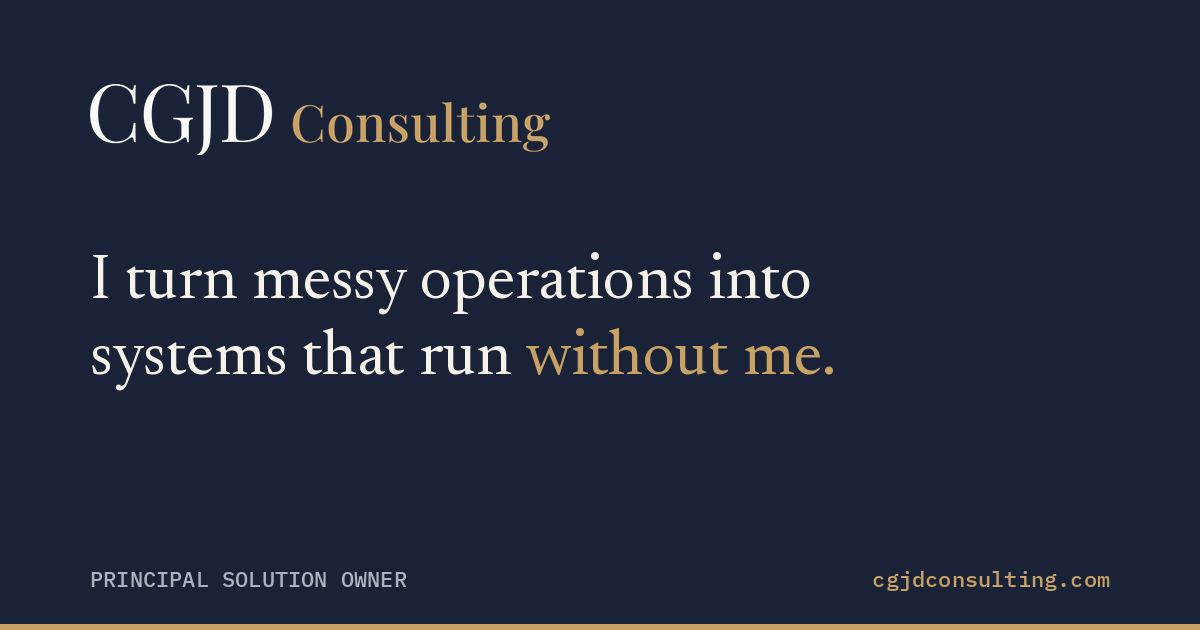
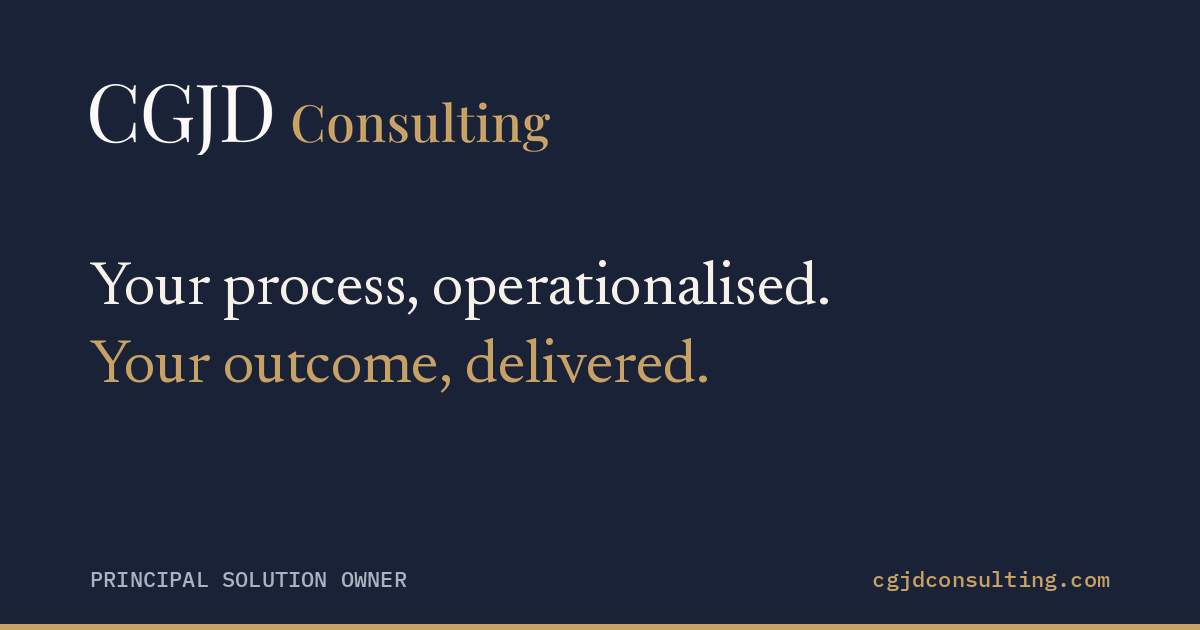
Add files via upload

Changed region(s): [[0.0617, 0.3921, 0.6783, 0.5127], [0.0617, 0.5127, 0.7092, 0.6333]]

diff --git a/index.html b/index.html
@@ -18,17 +18,17 @@
 <meta property="og:site_name" content="CGJDConsulting">
 <meta property="og:url" content="https://cgjdconsulting.com/">
 <meta property="og:title" content="CGJDConsulting · Emeka Maddy, Principal Solution Owner">
-<meta property="og:description" content="I turn messy operations into systems that run without me. Discovery to handover, one practitioner accountable throughout.">
+<meta property="og:description" content="Your process, operationalised. Your outcome, delivered. A turnkey delivery partner from discovery through to handover.">
 <meta property="og:image" content="https://cgjdconsulting.com/og-image.png">
 <meta property="og:image:width" content="1200">
 <meta property="og:image:height" content="630">
-<meta property="og:image:alt" content="CGJDConsulting — I turn messy operations into systems that run without me.">
+<meta property="og:image:alt" content="CGJDConsulting &middot; Your process, operationalised. Your outcome, delivered.">
 <meta property="og:locale" content="en_GB">
 
 <!-- Twitter Card (also used by some link-preview bots) -->
 <meta name="twitter:card" content="summary_large_image">
 <meta name="twitter:title" content="CGJDConsulting · Emeka Maddy, Principal Solution Owner">
-<meta name="twitter:description" content="I turn messy operations into systems that run without me.">
+<meta name="twitter:description" content="Your process, operationalised. Your outcome, delivered.">
 <meta name="twitter:image" content="https://cgjdconsulting.com/og-image.png">
 <link rel="preconnect" href="https://fonts.googleapis.com">
 <link rel="preconnect" href="https://fonts.gstatic.com" crossorigin>
@@ -68,6 +68,8 @@
   header.nav{position:sticky;top:0;z-index:100;background:rgba(246,242,233,0.88);backdrop-filter:blur(10px);border-bottom:1px solid var(--line-light)}
   .nav-inner{display:flex;align-items:center;justify-content:space-between;height:66px}
   .brand svg{height:26px;width:auto;display:block}
+  .brand-wrap{display:flex;align-items:center;gap:11px}
+  .brand-mark{height:34px;width:34px;display:block;flex-shrink:0}
   .nav-links{display:flex;align-items:center;gap:2rem}
   .nav-links a{font-size:0.9rem;color:var(--text-body);transition:color .2s}
   .nav-links a:hover{color:var(--gold-deep)}
@@ -94,6 +96,9 @@
   .btn-primary:hover{background:var(--gold-bright);transform:translateY(-2px)}
   .btn-ghost{border:1px solid var(--line-dark);color:var(--on-ink)}
   .btn-ghost:hover{border-color:var(--on-ink);transform:translateY(-2px)}
+  .hero-canvas{position:absolute;top:50%;right:clamp(0px,3vw,64px);transform:translateY(-50%);width:min(40vw,600px);height:auto;aspect-ratio:600/215;pointer-events:none;z-index:0}
+  @media(max-width:980px){.hero-canvas{display:none}}
+  .hero .wrap{position:relative;z-index:1}
   .hero-sectors{margin-top:clamp(3rem,7vw,5rem);padding-top:1.4rem;border-top:1px solid var(--line-dark);display:flex;flex-wrap:wrap;gap:.6rem 2rem;color:var(--on-ink-dim)}
   .hero-sectors span b{color:var(--on-ink);font-weight:400}
 
@@ -205,11 +210,11 @@
 
 <header class="nav">
   <div class="wrap nav-inner">
-    <a href="#top" class="brand" aria-label="CGJD Consulting home"><svg xmlns="http://www.w3.org/2000/svg" viewBox="0 0 957.9 174.4" width="957.9" height="174.4">
[1 lines of base64/hex data omitted]
 
 <g transform="translate(44.00,150.20)" fill="#192237"><g transform="translate(0.000,0) scale(0.15000,-0.15000)"><path d="M371 722Q437 722 479.5 702.5Q522 683 555 657Q575 642 585.5 653.5Q596 665 600 708H623Q621 671 620.0 618.0Q619 565 619 478H596Q589 521 583.0 546.5Q577 572 568.5 590.0Q560 608 546 626Q515 667 468.0 685.5Q421 704 369 704Q320 704 280.5 679.5Q241 655 212.5 609.0Q184 563 168.5 498.0Q153 433 153 352Q153 268 170.0 203.5Q187 139 217.5 95.0Q248 51 289.5 28.5Q331 6 379 6Q424 6 473.0 24.0Q522 42 550 82Q572 111 580.5 145.0Q589 179 596 240H619Q619 149 620.0 93.5Q621 38 623 0H600Q596 43 586.5 54.0Q577 65 555 51Q518 25 476.5 5.5Q435 -14 370 -14Q275 -14 203.5 29.0Q132 72 92.5 153.0Q53 234 53 348Q53 460 94.0 544.0Q135 628 206.5 675.0Q278 722 371 722Z"/></g><g transform="translate(100.200,0) scale(0.15000,-0.15000)"><path d="M376 722Q441 722 481.0 702.5Q521 683 556 657Q569 647 576 647Q595 647 601 708H624Q622 671 621.0 618.0Q620 565 620 478H597Q590 520 580.0 559.0Q570 598 547 626Q518 663 471.0 683.5Q424 704 374 704Q324 704 283.5 679.5Q243 655 214.0 609.0Q185 563 169.5 498.5Q154 434 154 353Q154 173 212.0 89.5Q270 6 392 6Q428 6 454.5 16.5Q481 27 496 37Q515 50 520.0 61.5Q525 73 525 92V188Q525 229 517.0 249.0Q509 269 487.5 276.0Q466 283 424 284V304Q442 303 466.0 302.5Q490 302 516.5 301.5Q543 301 565 301Q598 301 624.5 302.0Q651 303 669 304V284Q647 283 636.0 277.0Q625 271 621.5 253.0Q618 235 618 198V0H598Q597 17 590.5 37.0Q584 57 571 57Q565 57 559.0 54.0Q553 51 538 40Q505 15 468.0 0.5Q431 -14 382 -14Q279 -14 205.5 28.5Q132 71 93.0 151.0Q54 231 54 342Q54 459 96.0 544.0Q138 629 210.5 675.5Q283 722 376 722Z"/></g><g transform="translate(202.650,0) scale(0.15000,-0.15000)"><path d="M-20 -188V-169Q25 -168 55.5 -147.0Q86 -126 101.5 -77.5Q117 -29 117 52V602Q117 639 111.0 656.5Q105 674 87.5 680.5Q70 687 36 688V708Q57 707 91.0 706.0Q125 705 162 705Q199 705 233.5 706.0Q268 707 291 708V688Q257 687 239.5 680.5Q222 674 216.0 656.5Q210 639 210 602V236Q210 195 209.0 147.0Q208 99 204.5 54.0Q201 9 193 -25Q176 -95 121.5 -141.5Q67 -188 -20 -188Z"/></g><g transform="translate(248.550,0) scale(0.15000,-0.15000)"><path d="M315 708Q494 708 581.0 618.5Q668 529 668 362Q668 253 625.5 171.5Q583 90 502.0 45.0Q421 0 306 0Q291 0 266.0 1.0Q241 2 214.5 2.5Q188 3 166 3Q131 3 97.0 2.5Q63 2 42 0V20Q76 22 93.5 28.0Q111 34 117.0 52.0Q123 70 123 106V602Q123 639 117.0 656.5Q111 674 93.5 680.5Q76 687 42 688V708Q63 707 97.0 705.5Q131 704 164 705Q199 706 243.0 707.0Q287 708 315 708ZM290 690Q244 690 230.0 673.0Q216 656 216 604V104Q216 52 230.5 35.0Q245 18 291 18Q400 18 460.0 57.5Q520 97 544.0 173.0Q568 249 568 358Q568 470 541.5 543.5Q515 617 454.5 653.5Q394 690 290 690Z"/></g></g>
 <g transform="translate(427.00,150.20)" fill="#C8A165"><g transform="translate(0.000,0) scale(0.09600,-0.09600)"><path d="M379.60052490234375 722Q445.60052490234375 722 488.10052490234375 702.5Q530.6005249023438 683 563.6005249023438 657Q583.6005249023438 642 594.1005249023438 653.5Q604.6005249023438 665 608.6005249023438 708H631.6005249023438Q629.6005249023438 670.3999633789062 628.6005249023438 616.4999084472656Q627.6005249023438 562.599853515625 627.6005249023438 473.999755859375H604.6005249023438Q598.2005615234375 517.9998168945312 591.6005249023438 545.8999633789062Q585.00048828125 573.8001098632812 574.6003723144531 594.000244140625Q564.2002563476562 614.2003784179688 546.2000122070312 633.0004272460938Q517.2001342773438 668.60009765625 474.9004211425781 684.9999694824219Q432.6007080078125 701.3998413085938 386.00103759765625 701.3998413085938Q335.40093994140625 701.3998413085938 296.4009704589844 675.499755859375Q257.4010009765625 649.5996704101562 230.5010986328125 602.6996154785156Q203.6011962890625 555.799560546875 189.60128784179688 491.8996276855469Q175.60137939453125 427.99969482421875 175.60137939453125 352Q175.60137939453125 273.600341796875 190.80126953125 210.10040283203125Q206.00115966796875 146.6004638671875 234.50103759765625 101.30038452148438Q263.00091552734375 56.00030517578125 303.6008605957031 31.7001953125Q344.2008056640625 7.40008544921875 394.00091552734375 7.40008544921875Q435.00067138671875 7.40008544921875 478.9003601074219 23.499969482421875Q522.800048828125 39.599853515625 549.3999633789062 74.19952392578125Q577.0003051757812 103.59954833984375 587.3004150390625 141.19976806640625Q597.6005249023438 178.79998779296875 604.6005249023438 244.000244140625H627.6005249023438Q627.6005249023438 151.60015869140625 628.6005249023438 95.10009765625Q629.6005249023438 38.60003662109375 631.6005249023438 0H608.6005249023438Q604.6005249023438 43 595.1005249023438 54.0Q585.6005249023438 65 563.6005249023438 51Q526.6005249023438 25 485.10052490234375 5.5Q443.60052490234375 -14 378.60052490234375 -14Q280.00030517578125 -14 205.80014038085938 29.0Q131.5999755859375 72 90.59988403320312 153.0Q49.59979248046875 234 49.59979248046875 348Q49.59979248046875 460 92.09988403320312 544.0Q134.5999755859375 628 208.80014038085938 675.0Q283.00030517578125 722 379.60052490234375 722Z"/></g><g transform="translate(67.624,0) scale(0.09600,-0.09600)"><path d="M276.8001708984375 529.800048828125Q343.600341796875 529.800048828125 395.9004211425781 502.1000671386719Q448.20050048828125 474.40008544921875 479.0005187988281 414.40008544921875Q509.800537109375 354.40008544921875 509.800537109375 257.4000244140625Q509.800537109375 160.39996337890625 479.0005187988281 100.79995727539062Q448.20050048828125 41.199951171875 395.9004211425781 13.5999755859375Q343.600341796875 -14 276.8001708984375 -14Q211 -14 158.19992065429688 13.5999755859375Q105.39984130859375 41.199951171875 74.59982299804688 100.79995727539062Q43.7998046875 160.39996337890625 43.7998046875 257.4000244140625Q43.7998046875 354.40008544921875 74.59982299804688 414.40008544921875Q105.39984130859375 474.40008544921875 158.19992065429688 502.1000671386719Q211 529.800048828125 276.8001708984375 529.800048828125ZM276.8001708984375 509.800048828125Q225.20050048828125 509.800048828125 192.00070190429688 450.60003662109375Q158.8009033203125 391.4000244140625 158.8009033203125 257.4000244140625Q158.8009033203125 123.4000244140625 192.00070190429688 64.70001220703125Q225.20050048828125 6 276.8001708984375 6Q328.39984130859375 6 361.5996398925781 64.70001220703125Q394.7994384765625 123.4000244140625 394.7994384765625 257.4000244140625Q394.7994384765625 391.4000244140625 361.5996398925781 450.60003662109375Q328.39984130859375 509.800048828125 276.8001708984375 509.800048828125Z"/></g><g transform="translate(121.808,0) scale(0.09600,-0.09600)"><path d="M375.20062255859375 529.800048828125Q414.80072021484375 529.800048828125 440.500732421875 519.5000305175781Q466.20074462890625 509.20001220703125 482.6007080078125 491.4000244140625Q500.8006591796875 471.800048828125 508.60064697265625 441.800048828125Q516.400634765625 411.800048828125 516.400634765625 360.800048828125V93Q516.400634765625 51 532.9005737304688 36.0Q549.4005126953125 21 588.400390625 21V0Q570.8003540039062 1 534.7002868652344 2.5Q498.6002197265625 4 464.400146484375 4Q429.60003662109375 4 396.3999328613281 2.5Q363.1998291015625 1 346.3997802734375 0V21Q380.399658203125 21 394.39959716796875 36.0Q408.3995361328125 51 408.3995361328125 93V389.200439453125Q408.3995361328125 418.2003173828125 403.3995361328125 441.8001708984375Q398.3995361328125 465.4000244140625 382.29962158203125 479.59991455078125Q366.19970703125 493.7998046875 333.7999267578125 493.7998046875Q296.6002197265625 493.7998046875 268.10040283203125 472.79998779296875Q239.6005859375 451.8001708984375 223.50067138671875 415.30047607421875Q207.4007568359375 378.80078125 207.4007568359375 333.8011474609375V93Q207.4007568359375 51 221.50070190429688 36.0Q235.60064697265625 21 269.4005126953125 21V0Q252.80047607421875 1 220.20040893554688 2.5Q187.600341796875 4 153.4002685546875 4Q118.60015869140625 4 82.00006103515625 2.5Q45.39996337890625 1 27.39990234375 0V21Q66.3997802734375 21 82.89971923828125 36.0Q99.399658203125 51 99.399658203125 93V406.800048828125Q99.399658203125 451.800048828125 84.19970703125 473.300048828125Q68.999755859375 494.800048828125 27.39990234375 494.800048828125V515.800048828125Q59.39990234375 512.800048828125 89.39990234375 512.800048828125Q122.60015869140625 512.800048828125 152.5003662109375 516.300048828125Q182.40057373046875 519.800048828125 207.4007568359375 526.800048828125V418.0006103515625Q233.000732421875 480.4002685546875 278.3006591796875 505.10015869140625Q323.6005859375 529.800048828125 375.20062255859375 529.800048828125Z"/></g><g transform="translate(180.696,0) scale(0.09600,-0.09600)"><path d="M212.60028076171875 529.800048828125Q253.40032958984375 529.800048828125 282.5003967285156 517.5000915527344Q311.6004638671875 505.20013427734375 325.00048828125 494.8001708984375Q358.4005126953125 469.000244140625 365.60052490234375 528.800048828125H388.00048828125Q386.00048828125 500.60003662109375 385.00048828125 461.5Q384.00048828125 422.39996337890625 384.00048828125 356.7999267578125H361.60052490234375Q356.00054931640625 393.7999267578125 341.7005615234375 428.99993896484375Q327.40057373046875 464.199951171875 299.9006042480469 486.9999694824219Q272.400634765625 509.79998779296875 228.20068359375 509.79998779296875Q195.2008056640625 509.79998779296875 173.00088500976562 491.2000427246094Q150.80096435546875 472.60009765625 150.80096435546875 437.000244140625Q150.80096435546875 407.000244140625 168.80096435546875 385.1002197265625Q186.80096435546875 363.2001953125 215.6009521484375 344.10015869140625Q244.40093994140625 325.0001220703125 277.20086669921875 302.60009765625Q313.80078125 278.40008544921875 343.40069580078125 253.60009765625Q373.0006103515625 228.80010986328125 390.7005615234375 199.10012817382812Q408.4005126953125 169.400146484375 408.4005126953125 128.8001708984375Q408.4005126953125 83.00018310546875 383.7004699707031 51.20013427734375Q359.00042724609375 19.40008544921875 319.100341796875 2.700042724609375Q279.20025634765625 -14 231.20013427734375 -14Q206.5999755859375 -14 185.79989624023438 -9.699951171875Q164.99981689453125 -5.39990234375 147.39984130859375 2.20013427734375Q136.19976806640625 7.8001708984375 125.499755859375 14.300140380859375Q114.79974365234375 20.80010986328125 104.5997314453125 27.20001220703125Q94.5997314453125 33.59991455078125 86.79974365234375 24.69989013671875Q78.999755859375 15.79986572265625 74.999755859375 -7H52.59979248046875Q54.59979248046875 25 55.59979248046875 71.0Q56.59979248046875 117 56.59979248046875 193H78.999755859375Q85.79974365234375 137.60003662109375 99.69979858398438 95.800048828125Q113.599853515625 54.00006103515625 141.49984741210938 30.50006103515625Q169.39984130859375 7.00006103515625 216.59967041015625 7.00006103515625Q235.79962158203125 7.00006103515625 254.79953002929688 15.4000244140625Q273.7994384765625 23.79998779296875 286.599365234375 42.9998779296875Q299.3992919921875 62.19976806640625 299.3992919921875 93.99957275390625Q299.3992919921875 137.99957275390625 268.4993591308594 166.39959716796875Q237.59942626953125 194.79962158203125 190.3995361328125 226.7996826171875Q155.599609375 250.79974365234375 125.09967041015625 274.4997863769531Q94.5997314453125 298.1998291015625 75.59976196289062 327.6998596191406Q56.59979248046875 357.19989013671875 56.59979248046875 397.79986572265625Q56.59979248046875 442.79986572265625 78.29986572265625 471.9999084472656Q99.99993896484375 501.199951171875 135.800048828125 515.5Q171.60015869140625 529.800048828125 212.60028076171875 529.800048828125Z"/></g><g transform="translate(225.088,0) scale(0.09600,-0.09600)"><path d="M496.00079345703125 526.800048828125V108.20001220703125Q496.00079345703125 63.20001220703125 511.70074462890625 41.70001220703125Q527.4006958007812 20.20001220703125 568.0005493164062 20.20001220703125V-0.79998779296875Q537.0005493164062 2.20001220703125 506.00054931640625 2.20001220703125Q472.80029296875 2.20001220703125 443.0000915527344 -0.79998779296875Q413.19989013671875 -3.79998779296875 387.99969482421875 -11.79998779296875V96.99945068359375Q363.19970703125 36.999755859375 318.69976806640625 11.4998779296875Q274.1998291015625 -14 224.999755859375 -14Q187.79962158203125 -14 161.69961547851562 -3.699981689453125Q135.599609375 6.60003662109375 119.19964599609375 24.4000244140625Q100.99969482421875 44 93.99969482421875 75.5999755859375Q86.99969482421875 107.199951171875 86.99969482421875 155V406.800048828125Q86.99969482421875 451.800048828125 71.79974365234375 473.300048828125Q56.59979248046875 494.800048828125 14.99993896484375 494.800048828125V515.800048828125Q46.99993896484375 512.800048828125 76.99993896484375 512.800048828125Q110.2001953125 512.800048828125 140.10040283203125 516.300048828125Q170.0006103515625 519.800048828125 195.00079345703125 526.800048828125V126.599609375Q195.00079345703125 97.5997314453125 199.2008056640625 73.9998779296875Q203.40081787109375 50.4000244140625 218.4007568359375 36.20013427734375Q233.40069580078125 22.000244140625 265.6004638671875 22.000244140625Q300.6002197265625 22.000244140625 328.2000427246094 43.00006103515625Q355.79986572265625 63.9998779296875 371.8997802734375 100.09957885742188Q387.99969482421875 136.19927978515625 387.99969482421875 181.19891357421875V406.800048828125Q387.99969482421875 451.800048828125 372.79974365234375 473.300048828125Q357.59979248046875 494.800048828125 315.99993896484375 494.800048828125V515.800048828125Q347.99993896484375 512.800048828125 377.99993896484375 512.800048828125Q411.2001953125 512.800048828125 441.10040283203125 516.300048828125Q471.0006103515625 519.800048828125 496.00079345703125 526.800048828125Z"/></g><g transform="translate(282.632,0) scale(0.09600,-0.09600)"><path d="M201.2008056640625 783.5999755859375V92.97685809174845Q201.2008056640625 51 217.70074462890625 36.0Q234.20068359375 21 273.2005615234375 21V0Q255.6470393690952 1 220.0237149970476 2.5Q184.400390625 4 148.00030517578125 4Q112.43097862830528 4 75.81549541766827 2.5Q39.20001220703125 1 21.199951171875 0V21Q60.1998291015625 21 76.69976806640625 35.991278537484106Q93.19970703125 50.982557074968206 93.19970703125 92.9581369799237V663.6261399734852Q93.19970703125 708.5999755859375 78.04186369243422 730.0999755859375Q62.884020353618425 751.5999755859375 21.199951171875 751.5999755859375V772.5999755859375Q53.199951171875 769.5999755859375 83.199951171875 769.5999755859375Q116.40020751953125 769.5999755859375 146.3004150390625 773.0999755859375Q176.20062255859375 776.5999755859375 201.2008056640625 783.5999755859375Z"/></g><g transform="translate(311.856,0) scale(0.09600,-0.09600)"><path d="M202.4007568359375 681V515.0000610351562H340.400146484375V495.00006103515625H202.4007568359375V102.39971923828125Q202.4007568359375 61.00006103515625 217.400634765625 44.100189208984375Q232.4005126953125 27.2003173828125 259.600341796875 27.2003173828125Q285.80010986328125 27.2003173828125 306.4000244140625 48.10009765625Q326.99993896484375 68.9998779296875 342.39990234375 118.599365234375L361.39984130859375 112.19927978515625Q349.19970703125 58.59954833984375 318.69964599609375 22.299774169921875Q288.1995849609375 -14 228.99969482421875 -14Q195.19970703125 -14 172.29965209960938 -5.5Q149.39959716796875 3 132.39959716796875 19.20001220703125Q110.39959716796875 42 102.39962768554688 74.10000610351562Q94.399658203125 106.20001220703125 94.399658203125 159V495.00006103515625H2.39990234375V515.0000610351562H94.399658203125V660.9996337890625Q125 661.7996215820312 152.10025024414062 666.2997131347656Q179.20050048828125 670.7998046875 202.4007568359375 681Z"/></g><g transform="translate(346.744,0) scale(0.09600,-0.09600)"><path d="M146.6002197265625 768.4002075195312Q177.800537109375 768.4002075195312 198.70065307617188 748.9001770019531Q219.60076904296875 729.400146484375 219.60076904296875 699.9999389648438Q219.60076904296875 670.5997314453125 198.70065307617188 651.0997009277344Q177.800537109375 631.5996704101562 146.6002197265625 631.5996704101562Q115.39990234375 631.5996704101562 94.49978637695312 651.0997009277344Q73.59967041015625 670.5997314453125 73.59967041015625 699.9999389648438Q73.59967041015625 729.400146484375 94.49978637695312 748.9001770019531Q115.39990234375 768.4002075195312 146.6002197265625 768.4002075195312ZM207.4007568359375 526.800048828125V93.07179925380609Q207.4007568359375 51 223.90069580078125 36.0Q240.400634765625 21 279.4005126953125 21V0Q261.8469905409702 1 226.2236661689226 2.5Q190.600341796875 4 154.20025634765625 4Q118.63092980018028 4 82.01544658954327 2.5Q45.39996337890625 1 27.39990234375 0V21Q66.3997802734375 21 82.89971923828125 36.0Q99.399658203125 51 99.399658203125 93.08400512695313V406.7100433349609Q99.399658203125 451.800048828125 84.24181486430922 473.300048828125Q69.08397152549342 494.800048828125 27.39990234375 494.800048828125V515.800048828125Q59.39990234375 512.800048828125 89.39990234375 512.800048828125Q122.60015869140625 512.800048828125 152.5003662109375 516.300048828125Q182.40057373046875 519.800048828125 207.4007568359375 526.800048828125Z"/></g><g transform="translate(376.544,0) scale(0.09600,-0.09600)"><path d="M375.20062255859375 529.800048828125Q414.80072021484375 529.800048828125 440.500732421875 519.5000305175781Q466.20074462890625 509.20001220703125 482.6007080078125 491.4000244140625Q500.8006591796875 471.800048828125 508.60064697265625 441.800048828125Q516.400634765625 411.800048828125 516.400634765625 360.800048828125V93Q516.400634765625 51 532.9005737304688 36.0Q549.4005126953125 21 588.400390625 21V0Q570.8003540039062 1 534.7002868652344 2.5Q498.6002197265625 4 464.400146484375 4Q429.60003662109375 4 396.3999328613281 2.5Q363.1998291015625 1 346.3997802734375 0V21Q380.399658203125 21 394.39959716796875 36.0Q408.3995361328125 51 408.3995361328125 93V389.200439453125Q408.3995361328125 418.2003173828125 403.3995361328125 441.8001708984375Q398.3995361328125 465.4000244140625 382.29962158203125 479.59991455078125Q366.19970703125 493.7998046875 333.7999267578125 493.7998046875Q296.6002197265625 493.7998046875 268.10040283203125 472.79998779296875Q239.6005859375 451.8001708984375 223.50067138671875 415.30047607421875Q207.4007568359375 378.80078125 207.4007568359375 333.8011474609375V93Q207.4007568359375 51 221.50070190429688 36.0Q235.60064697265625 21 269.4005126953125 21V0Q252.80047607421875 1 220.20040893554688 2.5Q187.600341796875 4 153.4002685546875 4Q118.60015869140625 4 82.00006103515625 2.5Q45.39996337890625 1 27.39990234375 0V21Q66.3997802734375 21 82.89971923828125 36.0Q99.399658203125 51 99.399658203125 93V406.800048828125Q99.399658203125 451.800048828125 84.19970703125 473.300048828125Q68.999755859375 494.800048828125 27.39990234375 494.800048828125V515.800048828125Q59.39990234375 512.800048828125 89.39990234375 512.800048828125Q122.60015869140625 512.800048828125 152.5003662109375 516.300048828125Q182.40057373046875 519.800048828125 207.4007568359375 526.800048828125V418.0006103515625Q233.000732421875 480.4002685546875 278.3006591796875 505.10015869140625Q323.6005859375 529.800048828125 375.20062255859375 529.800048828125Z"/></g><g transform="translate(435.432,0) scale(0.09600,-0.09600)"><path d="M214.60009765625 -188Q158.59991455078125 -188 111.09988403320312 -177.10000610351562Q63.599853515625 -166.20001220703125 35.399871826171875 -143.50006103515625Q7.19989013671875 -120.80010986328125 7.19989013671875 -86.40020751953125Q7.19989013671875 -52.80029296875 35.19989013671875 -27.900299072265625Q63.19989013671875 -3.00030517578125 113.800048828125 10.19970703125L120.60009765625 -5.80029296875Q99.8001708984375 -15.200439453125 88.30026245117188 -35.100372314453125Q76.80035400390625 -55.00030517578125 76.80035400390625 -78.60015869140625Q76.80035400390625 -123.2000732421875 117.9002685546875 -147.10003662109375Q159.00018310546875 -171 226.20013427734375 -171Q271.20013427734375 -171 311.6999816894531 -159.29998779296875Q352.1998291015625 -147.5999755859375 377.6996765136719 -121.60003662109375Q403.19952392578125 -95.60009765625 403.19952392578125 -54.80029296875Q403.19952392578125 -22.80035400390625 380.1995544433594 -1.600372314453125Q357.1995849609375 19.599609375 289.19964599609375 19.599609375H219.19989013671875Q184.39971923828125 19.599609375 154.19970703125 25.99969482421875Q123.99969482421875 32.3997802734375 105.5997314453125 49.499847412109375Q87.19976806640625 66.59991455078125 87.19976806640625 98.79986572265625Q87.19976806640625 135.4000244140625 116.9998779296875 167.00003051757812Q146.79998779296875 198.60003662109375 218.3997802734375 229.99993896484375L229.79974365234375 221.199951171875Q200.60003662109375 205.40008544921875 178.40020751953125 188.60018920898438Q156.20037841796875 171.80029296875 156.20037841796875 148.0003662109375Q156.20037841796875 116.0003662109375 201.80023193359375 116.0003662109375H321.19989013671875Q367.8001708984375 116.0003662109375 405.90032958984375 103.600341796875Q444.00048828125 91.2003173828125 467.1005554199219 64.10025024414062Q490.20062255859375 37.00018310546875 490.20062255859375 -6.7999267578125Q490.20062255859375 -54.39996337890625 459.7005920410156 -95.69998168945312Q429.2005615234375 -137 368.0004577636719 -162.5Q306.80035400390625 -188 214.60009765625 -188ZM221.40020751953125 213Q169.800048828125 213 128.09994506835938 229.60000610351562Q86.39984130859375 246.20001220703125 62.3997802734375 281.3000183105469Q38.39971923828125 316.4000244140625 38.39971923828125 371.4000244140625Q38.39971923828125 426.4000244140625 62.3997802734375 461.5000305175781Q86.39984130859375 496.60003662109375 128.09994506835938 513.2000427246094Q169.800048828125 529.800048828125 221.40020751953125 529.800048828125Q273.80035400390625 529.800048828125 315.1004638671875 513.2000427246094Q356.40057373046875 496.60003662109375 380.400634765625 461.5000305175781Q404.40069580078125 426.4000244140625 404.40069580078125 371.4000244140625Q404.40069580078125 316.4000244140625 380.400634765625 281.3000183105469Q356.40057373046875 246.20001220703125 315.1004638671875 229.60000610351562Q273.80035400390625 213 221.40020751953125 213ZM221.40020751953125 231Q255.5999755859375 231 274.9998474121094 261.20001220703125Q294.39971923828125 291.4000244140625 294.39971923828125 371.4000244140625Q294.39971923828125 451.4000244140625 274.9998474121094 481.60003662109375Q255.5999755859375 511.800048828125 221.40020751953125 511.800048828125Q188.00042724609375 511.800048828125 168.2005615234375 481.60003662109375Q148.40069580078125 451.4000244140625 148.40069580078125 371.4000244140625Q148.40069580078125 291.4000244140625 168.2005615234375 261.20001220703125Q188.00042724609375 231 221.40020751953125 231ZM369.200439453125 445.79998779296875 350.60040283203125 452.79998779296875Q365.00042724609375 488.40008544921875 398.9004211425781 514.3000793457031Q432.8004150390625 540.2000732421875 470.40045166015625 540.2000732421875Q498.2005615234375 540.2000732421875 514.4005737304688 524.8000183105469Q530.6005859375 509.39996337890625 530.6005859375 480.5999755859375Q530.6005859375 450 514.3005981445312 436.7999572753906Q498.0006103515625 423.59991455078125 480.00054931640625 423.59991455078125Q464.20050048828125 423.59991455078125 450.7004699707031 434.5999450683594Q437.200439453125 445.5999755859375 435.200439453125 469.20001220703125Q433.200439453125 492.800048828125 450.20050048828125 529.60009765625L461.400390625 525.800048828125Q420.80047607421875 510.40008544921875 402.40045166015625 492.6000671386719Q384.00042724609375 474.800048828125 369.200439453125 445.79998779296875Z"/></g></g>
-</svg></a>
+</svg></a></div>
     <button class="nav-toggle" aria-expanded="false" aria-controls="navlinks">Menu</button>
     <nav class="nav-links" id="navlinks">
       <a href="#approach">Approach</a>
@@ -224,9 +229,10 @@
 <a id="top"></a>
 
 <section class="hero">
+  <canvas id="heroParticles" class="hero-canvas" aria-hidden="true"></canvas>
   <div class="wrap">
-    <span class="mono eyebrow">Principal Solution Owner</span>
-    <h1>I turn messy operations into systems that run <em>without me.</em></h1>
+    <span class="mono eyebrow">CGJDConsulting &middot; Workflow Automation &middot; Principal Solution Owner</span>
+    <h1>Your process, operationalised. <em>Your outcome, delivered.</em></h1>
     <p class="lead">A single point of accountability from discovery through to handover, no relay between account managers and delivery teams, nothing lost in translation. We design it, build it, prove it against your real data, then hand your team the keys.</p>
     <div class="hero-actions">
       <a class="btn btn-primary" href="https://calendar.app.google/q7fuB5FqUNaDvvoq5" target="_blank" rel="noopener">Book a call</a>
@@ -349,6 +355,107 @@
   if(reduce||!('IntersectionObserver' in window)){els.forEach(function(e){e.classList.add('in');});}
   else{var io=new IntersectionObserver(function(en){en.forEach(function(e){if(e.isIntersecting){e.target.classList.add('in');io.unobserve(e.target);}});},{threshold:0.12,rootMargin:'0px 0px -8% 0px'});
   els.forEach(function(e,i){e.style.transitionDelay=Math.min(i%4,3)*70+'ms';io.observe(e);});}
+
+  // Hero particle system: assembles the CGJD monogram from scattered gold dots
+  (function(){
+    var canvas = document.getElementById('heroParticles');
+    if(!canvas) return;
+    var ctx = canvas.getContext('2d');
+    var DATA = [[363.0,106.4],[234.7,165.6],[389.1,171.1],[361.1,139.8],[384.6,184.3],[366.9,102.2],[447.6,19.4],[478.5,44.4],[429.2,7.3],[125.7,18.7],[215.2,46.8],[484.2,19.3],[52.6,42.1],[557.3,107.6],[297.1,114.9],[201.8,162.9],[467.5,105.9],[378.3,22.9],[583.1,36.7],[316.7,5.2],[493.2,171.2],[39.2,144.3],[387.0,69.5],[379.0,172.6],[445.8,43.5],[93.9,172.3],[452.6,169.9],[465.9,137.4],[458.6,72.1],[201.8,152.4],[381.4,157.7],[446.0,165.9],[203.9,134.2],[366.7,182.4],[533.5,169.3],[322.8,118.9],[484.7,90.2],[592.7,67.0],[590.6,46.8],[466.9,46.5],[464.5,43.4],[374.4,5.4],[465.1,66.8],[220.4,36.3],[366.8,61.2],[365.2,72.0],[468.5,42.5],[38.8,93.4],[233.2,11.5],[558.6,59.2],[450.1,59.4],[48.8,64.3],[453.7,100.0],[185.8,44.8],[35.5,60.1],[324.4,108.7],[357.6,34.8],[211.0,75.8],[218.2,159.3],[56.4,150.4],[380.4,161.6],[204.9,115.8],[311.5,124.4],[90.0,4.9],[477.0,58.6],[452.1,48.7],[249.1,176.1],[466.4,146.7],[189.6,55.1],[310.8,129.5],[470.3,16.8],[566.7,59.2],[452.8,7.2],[485.9,124.9],[476.4,75.0],[574.0,148.3],[464.9,102.1],[567.7,128.3],[486.7,71.5],[174.5,66.6],[261.5,175.3],[574.3,136.4],[22.5,84.5],[47.1,125.8],[381.7,74.0],[202.2,130.6],[563.1,91.0],[23.8,111.0],[574.4,47.5],[503.6,7.9],[74.6,175.3],[19.1,66.1],[34.4,148.6],[273.9,110.3],[478.4,132.0],[444.0,108.1],[394.3,134.7],[383.3,71.5],[168.8,73.0],[386.3,71.3],[312.5,113.9],[348.9,6.8],[359.9,6.8],[554.3,66.2],[202.4,40.9],[455.8,76.0],[307.6,151.6],[378.8,21.3],[301.0,148.7],[379.2,89.4],[590.5,108.1],[361.6,126.0],[476.3,126.2],[314.3,53.1],[234.9,174.7],[558.4,125.3],[189.1,78.1],[364.7,60.8],[387.6,191.2],[168.4,93.5],[568.8,90.7],[554.7,27.2],[505.4,6.4],[359.2,31.5],[147.8,133.0],[148.1,23.9],[56.1,33.5],[374.7,21.6],[15.1,103.9],[251.0,173.0],[48.5,163.2],[4.4,115.6],[494.5,5.3],[51.3,122.6],[41.0,17.9],[465.0,127.2],[11.5,102.4],[193.3,80.9],[67.0,20.7],[147.3,165.3],[315.9,37.3],[465.1,39.3],[223.8,18.3],[206.1,40.4],[49.6,43.1],[445.9,143.4],[562.9,18.5],[486.0,88.4],[330.0,103.8],[215.9,140.4],[451.6,136.8],[224.0,172.7],[319.4,115.2],[33.0,159.9],[243.5,4.2],[208.3,76.3],[556.4,15.7],[6.5,103.3],[30.2,34.0],[59.8,9.1],[211.9,16.4],[9.7,126.0],[481.8,116.8],[466.5,132.9],[140.1,30.2],[488.3,9.2],[363.7,59.8],[453.6,47.4],[204.3,160.2],[572.7,149.1],[395.9,75.5],[482.9,40.0],[567.8,46.3],[58.8,163.1],[457.8,83.6],[48.7,49.8],[317.2,118.0],[320.3,117.2],[282.3,112.9],[227.5,24.1],[137.3,28.6],[373.2,117.9],[565.9,100.5],[45.0,134.4],[39.8,84.8],[383.3,110.4],[193.2,140.4],[376.4,134.2],[591.0,120.4],[54.3,171.0],[385.7,33.9],[146.3,161.3],[484.1,113.7],[484.9,8.7],[566.6,38.5],[119.2,10.3],[538.9,18.6],[382.3,164.1],[195.4,159.8],[591.6,63.7],[546.7,17.3],[463.5,163.2],[376.7,47.3],[474.0,159.7],[302.9,144.3],[211.1,68.7],[141.7,24.5],[287.5,138.7],[456.5,91.5],[44.1,97.3],[311.7,131.1],[459.4,134.1],[29.3,46.5],[452.3,30.8],[202.5,113.6],[190.4,95.2],[545.6,28.1],[482.9,133.0],[386.1,45.4],[434.4,172.5],[459.6,136.1],[375.1,63.1],[279.9,141.0],[379.4,28.5],[53.1,28.4],[176.7,93.6],[478.6,82.1],[582.9,53.0],[320.9,144.4],[350.4,203.6],[448.6,51.8],[376.2,205.2],[490.9,168.2],[209.6,163.6],[39.7,118.1],[469.8,60.7],[562.1,157.2],[25.7,104.7],[45.0,101.4],[169.0,114.1],[275.4,7.7],[48.4,21.1],[213.5,122.6],[186.9,88.6],[465.2,165.7],[376.4,198.0],[478.6,79.3],[491.8,168.0],[53.2,24.8],[31.6,94.2],[382.0,10.9],[473.8,97.4],[386.1,84.1],[78.4,8.3],[460.3,31.3],[564.7,58.9],[591.7,122.2],[34.3,160.6],[479.5,34.1],[461.2,42.8],[292.0,113.5],[220.3,37.9],[174.0,59.0],[193.5,120.9],[370.7,131.1],[201.1,137.0],[367.2,145.2],[304.3,154.9],[452.3,157.6],[212.5,61.3],[34.5,38.0],[436.7,171.4],[59.4,164.6],[207.1,46.8],[8.1,62.3],[355.3,213.1],[383.0,90.3],[62.9,172.4],[474.7,121.4],[221.8,20.7],[306.7,121.7],[7.8,103.7],[563.7,156.7],[142.8,48.8],[457.6,29.4],[52.1,139.9],[107.4,175.0],[505.7,174.6],[199.4,41.4],[470.9,79.4],[319.6,112.6],[505.3,7.2],[465.6,111.7],[13.0,61.1],[168.5,103.8],[564.6,72.5],[477.0,58.9],[212.4,18.4],[26.4,53.2],[200.5,98.2],[45.5,47.5],[298.3,154.9],[454.7,152.4],[194.2,90.5],[141.5,159.2],[560.1,83.7],[192.9,82.3],[197.1,30.2],[11.3,91.3],[117.2,9.3],[394.6,61.4],[456.7,65.0],[212.2,67.5],[178.9,85.5],[553.6,51.5],[42.9,67.9],[462.3,70.9],[362.4,175.9],[385.7,182.0],[298.2,148.4],[413.2,3.9],[393.8,124.0],[573.7,60.2],[173.7,106.1],[316.4,162.1],[41.2,47.1],[12.6,123.2],[169.3,91.4],[496.8,4.1],[180.0,82.2],[389.2,60.7],[194.2,109.9],[460.8,15.7],[592.7,77.8],[368.0,146.9],[7.5,124.1],[358.0,179.9],[11.4,82.5],[181.4,77.7],[581.3,119.8],[199.6,85.0],[320.7,140.2],[470.0,57.6],[309.5,124.2],[203.1,121.5],[586.2,115.8],[289.5,163.9],[559.3,23.7],[182.6,109.0],[481.3,28.4],[295.4,109.1],[11.6,117.0],[200.8,89.8],[44.5,142.0],[46.2,130.2],[477.1,83.5],[371.6,58.2],[470.7,142.6],[475.2,161.0],[45.6,11.9],[387.3,86.6],[199.6,36.7],[201.8,29.5],[20.2,148.6],[233.3,20.0],[321.6,123.8],[206.5,142.2],[450.9,60.6],[20.9,69.4],[2.6,72.6],[485.5,36.6],[460.4,23.0],[46.9,125.2],[45.4,161.7],[590.9,48.9],[398.6,50.7],[44.4,13.9],[445.7,89.9],[49.0,140.9],[359.9,30.1],[456.9,162.1],[21.6,39.9],[450.9,156.2],[373.9,204.9],[565.6,92.0],[45.9,154.0],[373.9,12.8],[44.8,40.6],[513.8,4.4],[199.3,53.2],[387.3,196.4],[467.7,95.3],[454.5,79.9],[380.9,185.7],[169.4,104.3],[388.4,101.5],[570.3,41.1],[48.4,162.0],[368.7,188.2],[567.6,40.6],[399.2,70.9],[556.9,100.1],[445.6,120.7],[377.6,158.3],[5.1,97.6],[384.5,187.9],[48.6,133.3],[468.8,108.1],[125.0,164.2],[17.3,94.6],[450.6,32.3],[391.6,103.7],[40.4,45.3],[545.5,14.4],[53.6,136.9],[46.3,19.9],[446.4,81.3],[438.2,170.4],[22.3,51.2],[61.1,169.7],[368.6,138.0],[446.7,66.6],[552.7,142.3],[453.8,162.8],[371.3,104.1],[482.4,154.6],[215.5,21.8],[20.5,115.3],[235.6,3.2],[394.2,146.3],[48.9,163.9],[452.0,143.3],[28.4,136.7],[560.8,141.6],[460.8,122.6],[299.3,151.0],[200.4,23.9],[196.5,55.1],[455.9,166.1],[242.8,2.5],[572.9,28.8],[575.0,87.0],[460.1,131.2],[570.7,94.1],[573.3,71.2],[20.4,47.1],[283.5,144.6],[9.6,87.0],[387.9,65.0],[141.4,134.6],[451.4,67.5],[306.6,137.4],[180.9,86.4],[398.2,85.1],[219.2,148.2],[180.3,142.6],[546.0,145.2],[96.5,177.3],[27.2,30.6],[357.1,139.9],[394.6,119.1],[547.2,151.8],[51.0,156.4],[365.7,45.7],[473.5,28.5],[184.4,41.1],[42.4,43.3],[237.6,9.3],[459.9,40.6],[212.0,162.4],[28.2,146.7],[478.6,73.5],[205.8,65.4],[396.0,156.8],[203.2,103.7],[462.2,102.3],[9.4,134.3],[33.4,128.4],[457.6,100.2],[181.8,47.7],[142.9,31.8],[48.1,102.5],[551.3,21.3],[467.5,41.3],[12.6,116.8],[470.1,135.9],[218.1,43.6],[591.0,88.1],[560.1,47.8],[284.5,125.9],[228.1,173.6],[362.6,63.5],[182.0,126.1],[408.5,4.0],[356.5,188.4],[43.3,82.1],[459.0,164.8],[284.2,8.6],[145.3,50.5],[298.6,152.7],[204.7,123.9],[175.5,108.2],[21.0,145.5],[478.5,27.0],[458.6,47.9],[390.8,54.7],[578.0,108.2],[447.1,67.8],[363.7,13.4],[388.3,113.1],[378.1,53.1],[23.2,128.0],[342.2,214.8],[481.6,149.1],[367.9,165.3],[474.7,17.1],[382.2,46.6],[288.2,163.3],[145.7,147.7],[304.6,137.0],[550.5,159.9],[385.9,137.5],[65.7,162.2],[40.3,54.6],[173.1,56.9],[486.4,101.8],[480.4,27.9],[25.3,68.3],[369.7,90.8],[216.5,44.0],[471.0,155.8],[288.0,113.9],[217.1,130.4],[481.7,47.0],[394.8,24.2],[381.8,19.5],[206.7,121.5],[455.0,134.5],[466.9,68.7],[545.8,24.2],[398.6,63.3],[361.4,161.6],[49.1,11.8],[404.7,9.4],[49.7,128.7],[451.9,160.3],[576.4,53.4],[307.6,31.7],[236.6,9.6],[67.7,7.8],[564.6,103.7],[374.4,164.4],[190.3,138.3],[206.7,22.7],[195.0,25.2],[181.5,101.9],[41.5,84.5],[370.0,68.9],[289.3,13.4],[593.9,78.0],[183.5,37.2],[591.3,50.8],[297.4,124.5],[241.4,176.7],[374.0,157.1],[181.2,98.4],[64.7,174.2],[310.8,31.7],[362.1,75.1],[38.7,26.2],[191.2,146.4],[361.7,116.6],[19.9,127.0],[182.1,112.2],[317.4,149.9],[581.7,67.3],[489.1,171.3],[449.0,102.5],[14.9,88.6],[181.1,76.6],[176.9,128.5],[297.2,139.4],[588.7,119.6],[198.2,150.4],[380.2,161.8],[392.9,49.8],[214.7,56.1],[131.9,160.8],[397.6,9.6],[560.9,51.8],[446.5,20.6],[398.7,158.2],[479.5,172.7],[145.2,14.5],[357.4,143.4],[51.2,165.4],[198.2,157.9],[204.0,138.2],[598.2,70.0],[451.9,154.0],[392.8,168.7],[360.3,174.0],[39.8,103.1],[54.6,43.4],[184.2,104.3],[379.7,37.2],[27.8,116.0],[47.5,44.0],[146.2,118.5],[463.5,6.5],[449.0,103.8],[375.5,25.2],[385.3,102.0],[387.2,105.4],[582.6,51.9],[485.7,97.7],[459.5,156.8],[548.0,36.9],[148.2,145.1],[147.1,163.6],[45.0,76.8],[301.7,22.4],[389.5,55.6],[388.1,147.8],[375.5,184.6],[180.4,89.4],[146.4,122.0],[459.3,151.2],[80.0,169.1],[211.3,101.6],[220.0,143.2],[445.7,16.3],[41.7,44.5],[375.4,202.9],[536.8,15.1],[450.1,124.9],[43.9,40.5],[178.9,93.5],[320.2,155.9],[6.5,104.8],[196.7,153.4],[457.2,103.8],[467.5,117.6],[317.5,58.6],[388.0,121.0],[546.8,161.8],[588.6,116.2],[293.0,14.9],[20.2,103.0],[238.7,16.4],[200.0,72.1],[501.3,170.9],[284.2,140.0],[47.5,54.7],[567.1,101.2],[220.5,172.7],[138.6,156.5],[55.2,165.8],[174.4,88.6],[449.9,97.7],[556.6,92.0],[378.0,59.0],[367.1,21.8],[475.1,12.5],[174.8,80.8],[25.9,25.8],[21.8,56.2],[463.1,88.8],[578.2,75.1],[169.7,80.5],[185.5,84.2],[311.2,121.2],[466.4,17.0],[382.3,86.3],[205.9,101.6],[446.9,59.7],[456.8,87.2],[52.6,141.4],[474.6,112.5],[365.0,46.2],[53.3,149.0],[216.2,107.0],[356.4,102.2],[583.7,51.7],[175.7,72.1],[34.6,102.9],[219.9,41.0],[184.5,129.3],[549.5,144.1],[278.6,114.9],[470.9,135.1],[287.1,147.8],[66.9,174.1],[478.3,116.4],[128.0,160.3],[35.1,41.5],[167.8,105.2],[39.8,54.1],[357.2,126.7],[580.0,31.6],[571.0,107.2],[148.7,168.0],[560.2,23.1],[301.3,115.9],[484.0,164.5],[182.8,64.2],[373.6,61.4],[493.1,173.2],[473.0,75.0],[558.9,147.4],[545.7,164.3],[248.9,175.1],[34.6,154.9],[452.2,56.8],[50.8,46.1],[584.4,78.3],[187.4,60.8],[441.2,12.7],[110.1,171.4],[34.4,47.0],[203.0,88.3],[369.3,19.5],[364.0,170.7],[61.9,16.3],[364.4,111.4],[391.5,162.4],[303.2,141.3],[480.1,33.8],[184.8,132.9],[144.6,169.7],[452.0,39.0],[567.3,144.0],[313.1,117.2],[447.2,86.9],[394.3,40.4],[446.1,97.4],[390.1,13.0],[293.8,141.3],[189.2,102.0],[474.1,118.5],[469.1,11.9],[197.7,88.2],[392.8,24.3],[376.5,163.9],[396.0,163.3],[392.4,19.1],[179.1,136.3],[577.7,66.3],[146.5,117.9],[205.1,150.3],[42.5,100.4],[400.2,11.8],[200.0,98.5],[219.4,167.8],[372.4,161.3],[51.5,58.4],[478.8,16.5],[77.5,167.6],[361.4,172.7],[145.7,6.6],[299.6,134.2],[372.9,130.0],[392.1,148.6],[581.7,136.1],[449.1,75.8],[486.4,37.0],[386.4,5.9],[358.7,121.3],[76.0,2.4],[374.8,167.7],[200.4,159.9],[586.4,55.5],[445.9,130.0],[81.7,171.4],[141.2,46.3],[473.9,98.9],[478.4,151.4],[49.6,153.1],[371.8,145.0],[573.7,83.5],[226.9,32.2],[10.2,53.8],[581.2,81.2],[566.7,48.0],[562.1,48.6],[455.1,56.5],[206.1,126.8],[123.0,10.2],[9.4,109.6],[56.6,152.5],[147.9,155.6],[217.0,151.4],[574.5,33.0],[65.1,4.4],[36.8,53.2],[189.4,43.8],[4.2,81.6],[370.6,98.6],[446.5,170.9],[218.8,144.3],[450.4,77.3],[10.1,87.9],[393.3,108.8],[546.9,160.4],[462.5,102.1],[454.7,173.1],[215.9,97.2],[22.2,132.0],[595.9,106.5],[476.2,87.7],[555.9,135.3],[171.3,62.9],[38.4,31.8],[14.8,100.7],[395.8,95.6],[394.6,161.3],[210.5,60.6],[373.5,40.6],[561.9,153.5],[474.5,92.2],[463.0,72.2],[462.8,75.4],[354.4,188.8],[462.0,126.2],[287.6,119.2],[357.5,199.5],[374.4,90.9],[483.0,156.4],[443.1,9.9],[190.4,130.0],[8.4,102.7],[182.0,115.5],[210.6,125.2],[362.5,71.9],[197.8,144.3],[193.5,48.0],[52.8,14.9],[379.6,75.8],[568.8,129.3],[580.8,94.6],[220.3,134.0],[481.1,32.1],[185.4,115.8],[466.8,51.7],[48.6,65.0],[578.9,31.0],[384.4,169.8],[192.4,147.2],[465.9,14.1],[594.3,108.4],[47.5,144.0],[560.2,107.5],[12.0,106.2],[582.1,94.9],[571.2,44.4],[11.6,86.9],[366.0,134.5],[573.3,136.3],[399.7,81.7],[577.7,127.8],[190.7,147.2],[475.7,84.2],[28.6,129.1],[223.1,15.9],[566.4,76.6],[185.1,101.1],[303.8,139.1],[367.9,182.9],[383.5,144.9],[212.9,23.3],[398.9,50.1],[200.0,147.8],[47.2,136.5],[201.4,87.5],[453.9,53.9],[373.8,101.1],[205.2,18.6],[445.3,10.7],[359.7,125.8],[314.7,49.4],[319.6,164.7],[308.2,135.6],[221.0,39.1],[384.0,160.8],[558.1,116.4],[389.6,62.7],[598.1,79.1],[500.5,4.9],[368.0,178.0],[242.1,14.3],[410.9,6.6],[443.8,83.2],[43.0,84.6],[382.6,99.3],[203.4,118.4],[484.8,48.1],[519.0,172.9],[118.1,169.7],[590.1,100.9],[589.0,75.6],[579.0,108.7],[588.4,66.7],[397.7,159.9],[304.6,152.4],[2.8,86.0],[183.6,94.3],[175.1,122.2],[368.7,198.1],[175.8,117.1],[538.5,157.1],[41.2,31.5],[11.6,44.9],[394.0,90.6],[370.6,148.3],[444.0,123.8],[283.1,166.2],[567.0,103.1],[44.1,136.2],[557.8,93.0],[198.9,125.0],[452.3,78.4],[23.3,83.1],[30.9,78.1],[179.2,74.1],[482.4,39.5],[466.9,159.6],[183.4,36.5],[598.7,72.9],[245.5,170.7],[147.6,47.5],[174.0,106.7],[57.7,12.8],[39.4,34.9],[395.9,40.4],[399.0,82.7],[555.2,157.1],[17.7,55.7],[363.9,158.3],[452.5,114.1],[44.1,63.4],[537.9,160.6],[467.1,33.8],[396.8,138.9],[357.3,176.2],[218.2,152.2],[182.7,101.6],[203.5,139.3],[191.1,135.9],[367.5,129.7],[573.0,106.9],[368.0,103.3],[570.0,29.6],[197.7,155.9],[279.8,138.0],[36.9,129.7],[384.7,144.2],[371.4,149.4],[145.6,135.5],[31.0,34.8],[590.7,73.1],[557.7,23.8],[143.3,34.1],[56.4,13.2],[461.2,54.7],[545.5,9.7],[208.5,103.3],[206.3,127.7],[446.6,65.3],[23.6,113.3],[471.0,46.9],[569.1,86.6],[585.3,104.4],[391.6,31.8],[447.1,92.9],[23.1,73.6],[84.5,172.4],[311.8,119.2],[306.0,131.1],[491.8,172.8],[368.9,29.9],[26.1,35.4],[380.1,57.6],[48.3,33.6],[244.5,11.1],[364.0,28.4],[474.4,75.9],[485.4,15.9],[52.4,160.4],[411.1,3.8],[172.9,70.1],[44.0,149.8],[40.6,119.0],[381.3,174.2],[177.5,57.4],[261.6,176.8],[133.3,21.2],[397.5,125.7],[225.4,36.6],[475.3,105.9],[13.8,59.8],[367.1,103.8],[361.5,79.3],[50.2,113.5],[469.9,64.5],[293.2,106.7],[216.8,25.5],[543.2,165.4],[289.3,139.4],[314.4,159.7],[312.5,54.3],[377.8,27.6],[512.9,4.2],[144.7,170.7],[38.8,105.4],[476.9,8.7],[572.3,149.3],[362.6,180.7],[352.4,9.1],[463.4,116.9],[200.9,156.8],[372.6,195.2],[381.5,194.0],[194.4,143.9],[475.4,89.4],[436.8,4.9],[586.5,134.2],[559.5,147.1],[77.1,167.9],[297.5,164.1],[376.7,112.4],[29.1,47.9],[208.7,66.9],[561.7,31.2],[578.4,36.2],[39.7,66.6],[587.8,101.2],[273.0,105.2],[31.7,60.3],[289.0,153.4],[566.2,152.5],[8.6,112.2],[457.0,108.0],[299.0,108.3],[551.7,125.7],[393.7,61.9],[35.5,113.0],[382.0,117.2],[365.7,167.7],[470.6,41.2],[555.2,17.0],[136.1,20.6],[282.0,132.6],[462.5,113.8],[38.8,157.0],[31.7,107.0],[313.4,156.4],[390.4,45.2],[397.6,116.0],[400.0,84.1],[472.2,125.3],[217.6,127.9],[481.1,101.6],[479.5,51.4],[560.9,37.8],[381.1,152.8],[25.1,148.2],[569.5,58.7],[43.3,164.1],[59.6,20.1],[433.3,172.1],[576.7,112.4],[556.3,81.5],[484.6,137.2],[204.3,154.2],[459.0,114.7],[372.8,20.7],[467.7,132.2],[586.5,128.1],[365.1,115.0],[457.8,54.6],[312.0,115.4],[550.9,27.5],[42.0,38.9],[191.2,44.1],[387.9,126.2],[366.8,4.5],[142.1,18.4],[189.6,59.0],[476.6,108.2],[174.7,55.9],[529.8,168.0],[219.7,49.1],[178.4,125.8],[198.9,136.4],[456.9,106.5],[470.4,52.9],[26.6,94.9],[445.9,106.1],[557.8,19.3],[362.9,56.4]];
+    var W = 600, H = 215;
+    var scaleX = 1, scaleY = 1;
+    var particles = [];
+    var reduceMotion = window.matchMedia('(prefers-reduced-motion: reduce)').matches;
+    var canHover = window.matchMedia('(hover: hover) and (pointer: fine)').matches;
+    var started = false;
+    var startTime = null;
+    var ASSEMBLE_S = 1.7;
+    var mouseX = 0, mouseY = 0, targetMouseX = 0, targetMouseY = 0;
+
+    function resize(){
+      var rect = canvas.getBoundingClientRect();
+      if(!rect.width) return;
+      var dpr = window.devicePixelRatio || 1;
+      canvas.width = rect.width * dpr;
+      canvas.height = rect.height * dpr;
+      ctx.setTransform(dpr,0,0,dpr,0,0);
+      scaleX = rect.width / W;
+      scaleY = rect.height / H;
+    }
+
+    function initParticles(){
+      particles = DATA.map(function(p){
+        var tx = p[0], ty = p[1];
+        var fromTop = Math.random() < 0.5;
+        return {
+          tx: tx, ty: ty,
+          x: reduceMotion ? tx : Math.random()*W,
+          y: reduceMotion ? ty : (fromTop ? -30 - Math.random()*90 : H + 30 + Math.random()*90),
+          delay: Math.random()*0.55,
+          phase: Math.random()*Math.PI*2,
+          speed: 0.5 + Math.random()*0.5,
+          r: 0.8 + Math.random()*1.1,
+          op: 0.4 + Math.random()*0.5
+        };
+      });
+    }
+
+    function draw(now){
+      if(!startTime) startTime = now/1000;
+      var t = now/1000 - startTime;
+      ctx.clearRect(0,0,canvas.width,canvas.height);
+      mouseX += (targetMouseX - mouseX)*0.05;
+      mouseY += (targetMouseY - mouseY)*0.05;
+
+      for(var i=0;i<particles.length;i++){
+        var p = particles[i];
+        var progress = reduceMotion ? 1 : Math.min(1, Math.max(0, (t - p.delay)/ASSEMBLE_S));
+        var ease = 1 - Math.pow(1-progress, 3);
+        var bx = p.x + (p.tx - p.x)*ease;
+        var by = p.y + (p.ty - p.y)*ease;
+        var jitterX = reduceMotion ? 0 : Math.sin(t*p.speed + p.phase) * 1.3 * progress;
+        var jitterY = reduceMotion ? 0 : Math.cos(t*p.speed*0.85 + p.phase) * 1.3 * progress;
+        var parX = canHover ? mouseX * 7 * progress : 0;
+        var parY = canHover ? mouseY * 7 * progress : 0;
+        var px = (bx + jitterX + parX) * scaleX;
+        var py = (by + jitterY + parY) * scaleY;
+        ctx.beginPath();
+        ctx.arc(px, py, p.r, 0, Math.PI*2);
+        ctx.fillStyle = 'rgba(200,161,101,' + (p.op*progress).toFixed(2) + ')';
+        ctx.fill();
+      }
+      requestAnimationFrame(draw);
+    }
+
+    function onMouseMove(e){
+      var rect = canvas.getBoundingClientRect();
+      var nx = ((e.clientX - rect.left)/rect.width - 0.5);
+      var ny = ((e.clientY - rect.top)/rect.height - 0.5);
+      targetMouseX = Math.max(-1, Math.min(1, nx));
+      targetMouseY = Math.max(-1, Math.min(1, ny));
+    }
+
+    function start(){
+      if(started) return;
+      started = true;
+      resize();
+      initParticles();
+      if(canHover) window.addEventListener('mousemove', onMouseMove, {passive:true});
+      window.addEventListener('resize', resize);
+      requestAnimationFrame(draw);
+    }
+
+    if(window.matchMedia('(max-width:980px)').matches){
+      // skip entirely on the breakpoint where the canvas is hidden
+    } else if('IntersectionObserver' in window){
+      var heroIo = new IntersectionObserver(function(entries){
+        entries.forEach(function(e){ if(e.isIntersecting){ start(); heroIo.unobserve(e.target); } });
+      }, {threshold:0.1});
+      heroIo.observe(canvas);
+    } else {
+      start();
+    }
+  })();
   var trk=document.querySelector('.delivery .track');
   if(trk){ if(reduce || !('IntersectionObserver' in window)){ trk.classList.add('animate'); }
     else { new IntersectionObserver(function(en,o){en.forEach(function(e){if(e.isIntersecting){e.target.classList.add('animate');o.unobserve(e.target);}});},{threshold:0.35}).observe(trk); } }
